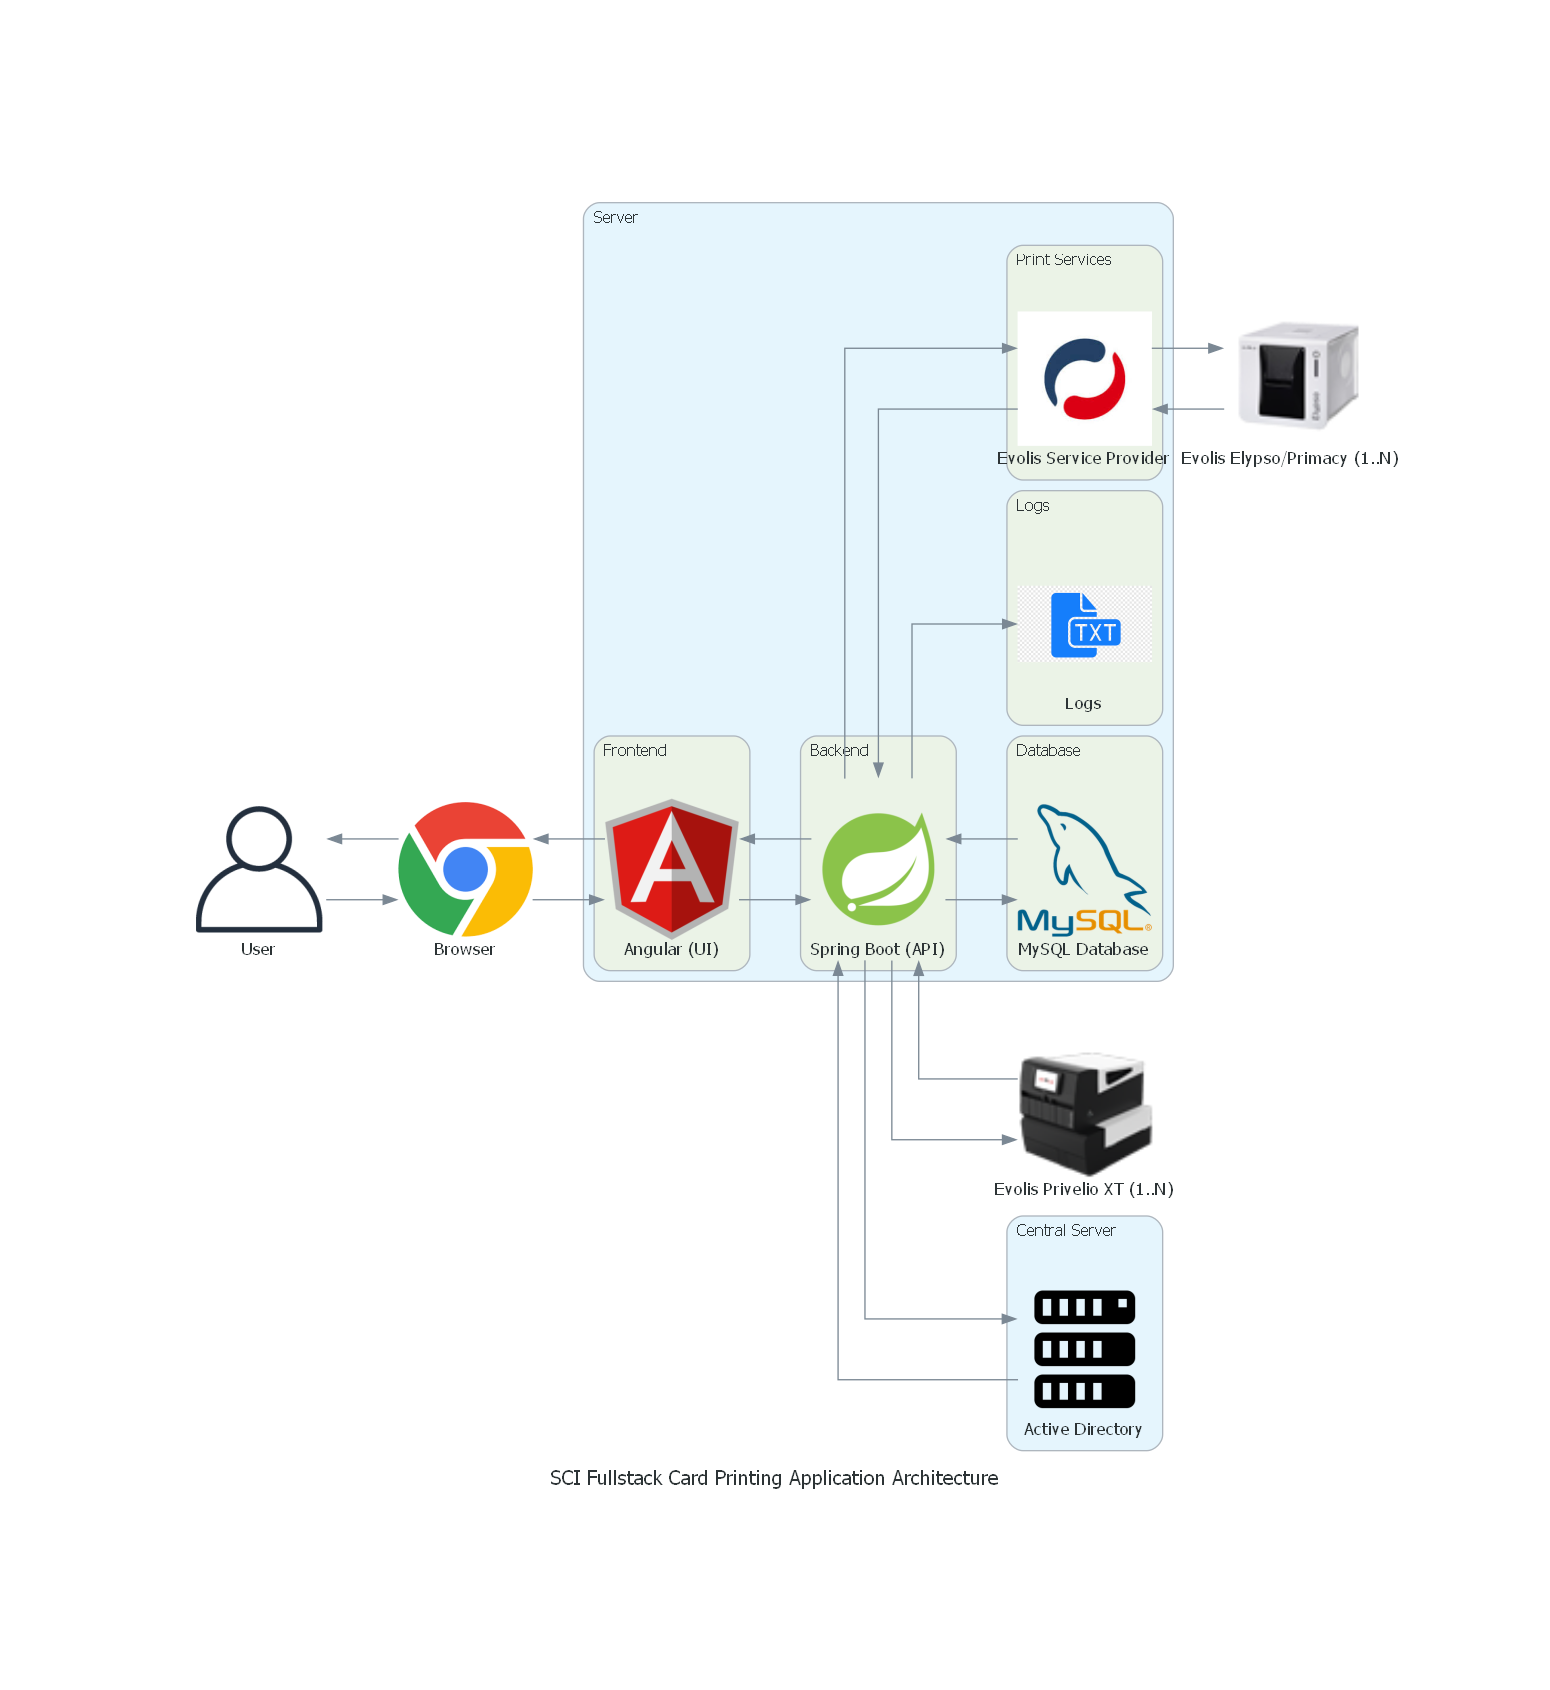
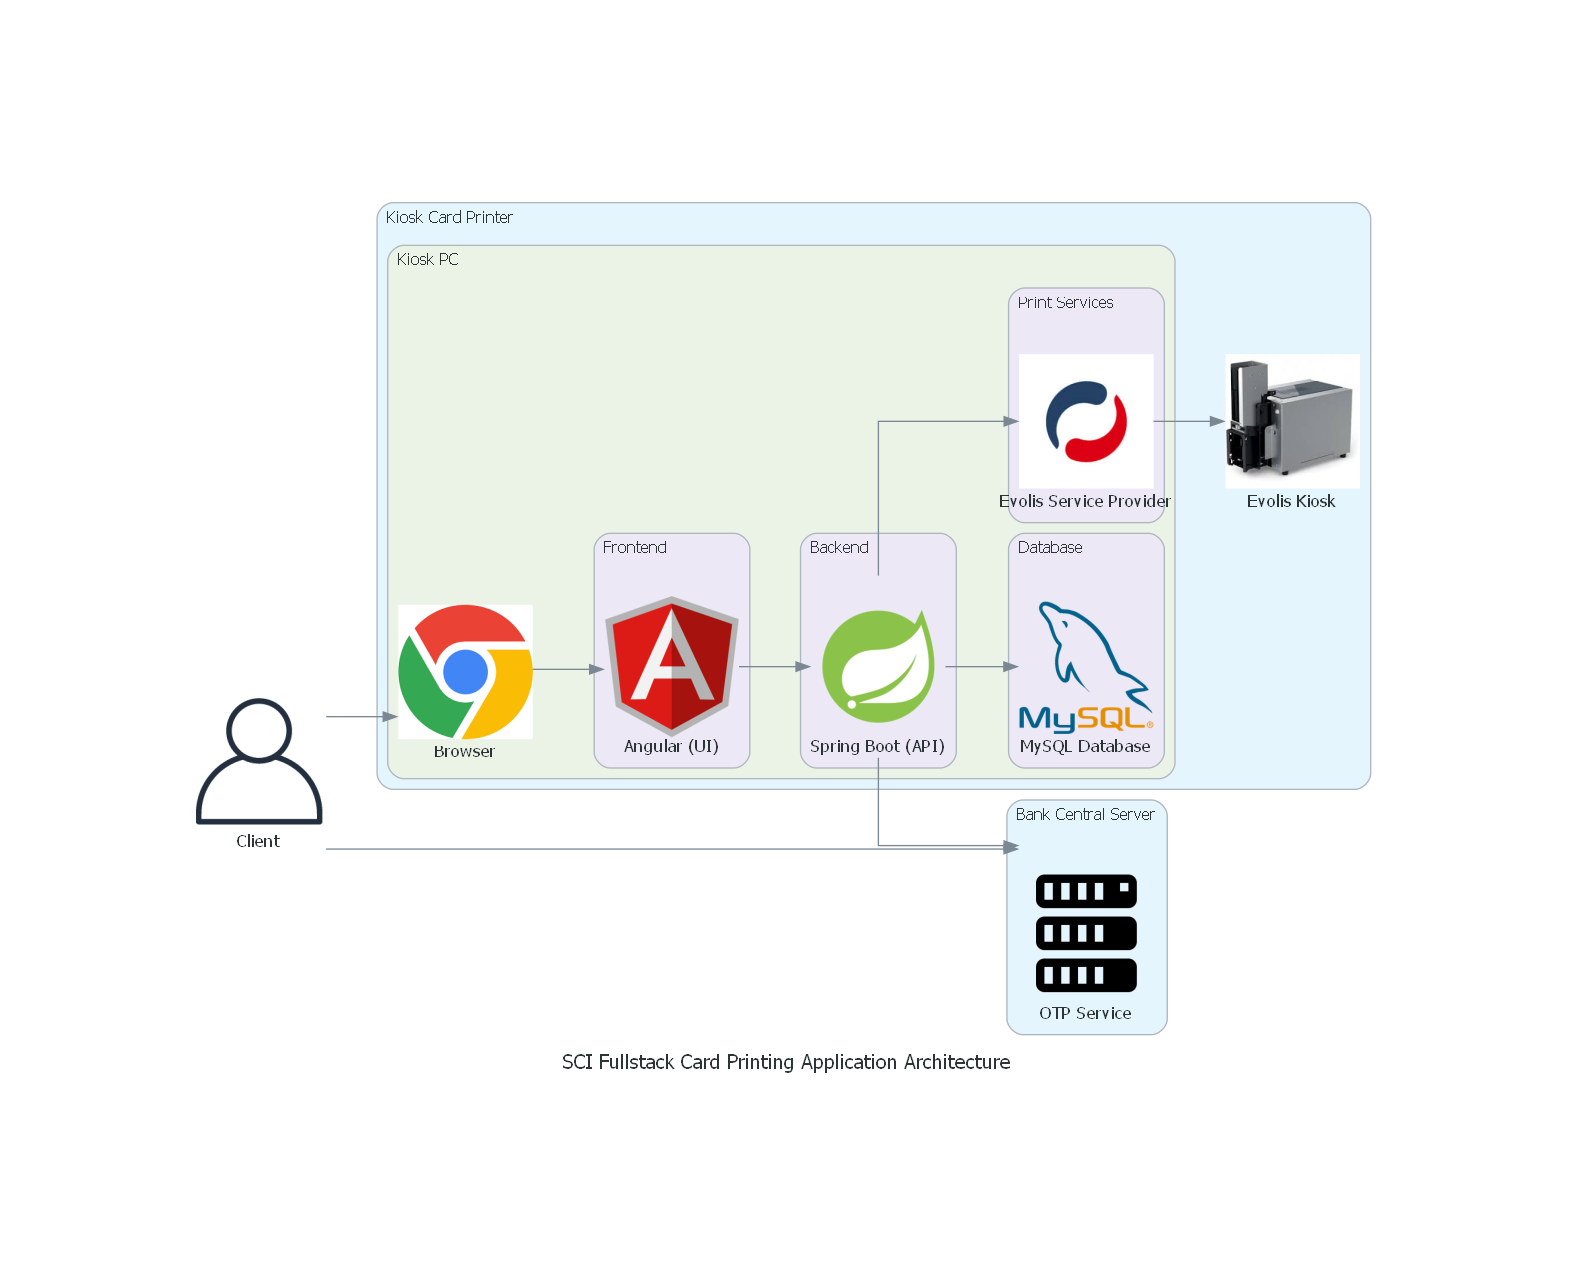
add kiosk architecture

Changed region(s): [[0.1239, 0.0918, 0.8981, 0.8878]]

diff --git a/kudondza-architecture.py b/kudondza-architecture.py
@@ -1,0 +1,76 @@
+from diagrams import Diagram, Cluster, Edge
+from diagrams.aws.compute import ECS, ECR
+from diagrams.aws.database import RDS
+from diagrams.aws.network import VPC, InternetGateway, RouteTable, PublicSubnet, PrivateSubnet, ELB
+from diagrams.aws.security import IAM
+from diagrams.aws.storage import SimpleStorageServiceS3
+from diagrams.aws.management import Cloudwatch
+
+# Criando o diagrama
+with Diagram("AWS Infrastructure for Ku Dondza", show=False, direction="LR"):
+    # VPC
+    with Cluster("VPC"):
+        vpc = VPC("ku-dondza-vpc")
+
+        # Internet Gateway
+        igw = InternetGateway("ku-dondza-igw")
+        vpc >> igw
+
+        # Route Table
+        route_table = RouteTable("ku-dondza-public-route-table")
+        igw >> route_table
+
+        # Subnets
+        with Cluster("Public Subnets"):
+            public_subnet_1 = PublicSubnet("public-subnet-1\n(us-east-1a)")
+            public_subnet_2 = PublicSubnet("public-subnet-2\n(us-east-1b)")
+            public_subnet_1 >> route_table
+            public_subnet_2 >> route_table
+
+        with Cluster("Private Subnets"):
+            private_subnet_1 = PrivateSubnet("private-subnet-1\n(us-east-1a)")
+            private_subnet_2 = PrivateSubnet("private-subnet-2\n(us-east-1b)")
+
+    # RDS
+    with Cluster("RDS"):
+        rds = RDS("ku-dondza-db")
+        rds_sg = IAM("ku-dondza-db-sg")
+        rds >> rds_sg
+        rds - Edge(color="brown") >> private_subnet_1
+        rds - Edge(color="brown") >> private_subnet_2
+
+    # ECS
+    with Cluster("ECS"):
+        ecs_cluster = ECS("ku-dondza-cluster")
+        ecs_service = ECS("ku-dondza-service")
+        ecs_task = ECS("ku-dondza-task")
+        ecr = ECR("ku-dondza-repo")
+
+        ecs_cluster >> ecs_service >> ecs_task
+        ecs_task >> ecr
+
+    # Load Balancer
+    alb = ELB("ku-dondza-lb")
+    alb >> public_subnet_1
+    alb >> public_subnet_2
+    alb >> ecs_service
+
+    # CloudWatch Logs
+    cloudwatch = Cloudwatch("ku-dondza-app-logs")
+    ecs_task >> cloudwatch
+
+    # IAM Role
+    iam_role = IAM("ku-dondza-ecs-task-execution-role")
+    ecs_task >> iam_role
+
+    # Security Groups
+    web_sg = IAM("ku-dondza-web-sg")
+    ecs_service >> web_sg
+    alb >> web_sg
+
+    # Outputs
+    outputs = SimpleStorageServiceS3("Outputs")
+    outputs >> Edge(label="ALB DNS Name") >> alb
+    outputs >> Edge(label="RDS Endpoint") >> rds
+    outputs >> Edge(label="ECR Repository URL") >> ecr
+    outputs >> Edge(label="ECS Cluster Name") >> ecs_cluster

diff --git a/architecture-diagram-kiosk.py b/architecture-diagram-kiosk.py
@@ -1,0 +1,50 @@
+from diagrams import Diagram, Cluster
+from diagrams.onprem.client import User
+from diagrams.onprem.database import MySQL
+from diagrams.programming.framework import Angular, Spring
+from diagrams.custom import Custom
+from diagrams.onprem.compute import Server
+
+# Custom components
+evolis_kiosk_printer_url = "images/kiosk.jpg"
+evolis_privelio_printer_url = "images/privelio-64.png"
+evolis_service_provider = "images/evolis_logo.png"
+browser_img = "images/chrome-browser.png"
+logs_url = "images/txt-image.png"
+
+with Diagram("SCI Fullstack Card Printing Application Architecture", show=True, direction="LR"):
+    user = User("Client")
+
+    # Cluster para o Kiosk Card Printer
+    with Cluster("Kiosk Card Printer"):
+        with Cluster("Kiosk PC"):
+            browser = Custom("Browser", browser_img)
+
+            with Cluster("Frontend"):
+                angular = Angular("Angular (UI)")
+
+            with Cluster("Backend"):
+                spring = Spring("Spring Boot (API)")
+
+            with Cluster("Database"):
+                mysql = MySQL("MySQL Database")
+            
+            #with Cluster("Logs"):
+                #logs = Custom("Logs", logs_url)
+
+            with Cluster("Print Services"):
+                service_provider = Custom("Evolis Service Provider", evolis_service_provider)
+
+        evolis_kiosk_printer = Custom("Evolis Kiosk", evolis_kiosk_printer_url)
+
+    # Cluster para o Bank Central Server
+    with Cluster("Bank Central Server"):
+        otp_service = Server("OTP Service")
+
+    # Conexões
+    user >> browser >> angular >> spring  # Comunicação do usuário até o Spring
+    spring >> mysql  # Conexão Spring com o MySQL
+    #spring >> logs  # Conexão Spring com os logs
+    spring >> service_provider >> evolis_kiosk_printer  # Comunicação do Spring com o serviço de impressão
+    spring >> otp_service  # Comunicação do Spring com o serviço OTP
+    user >> otp_service  # Comunicação direta do usuário com o serviço OTP
